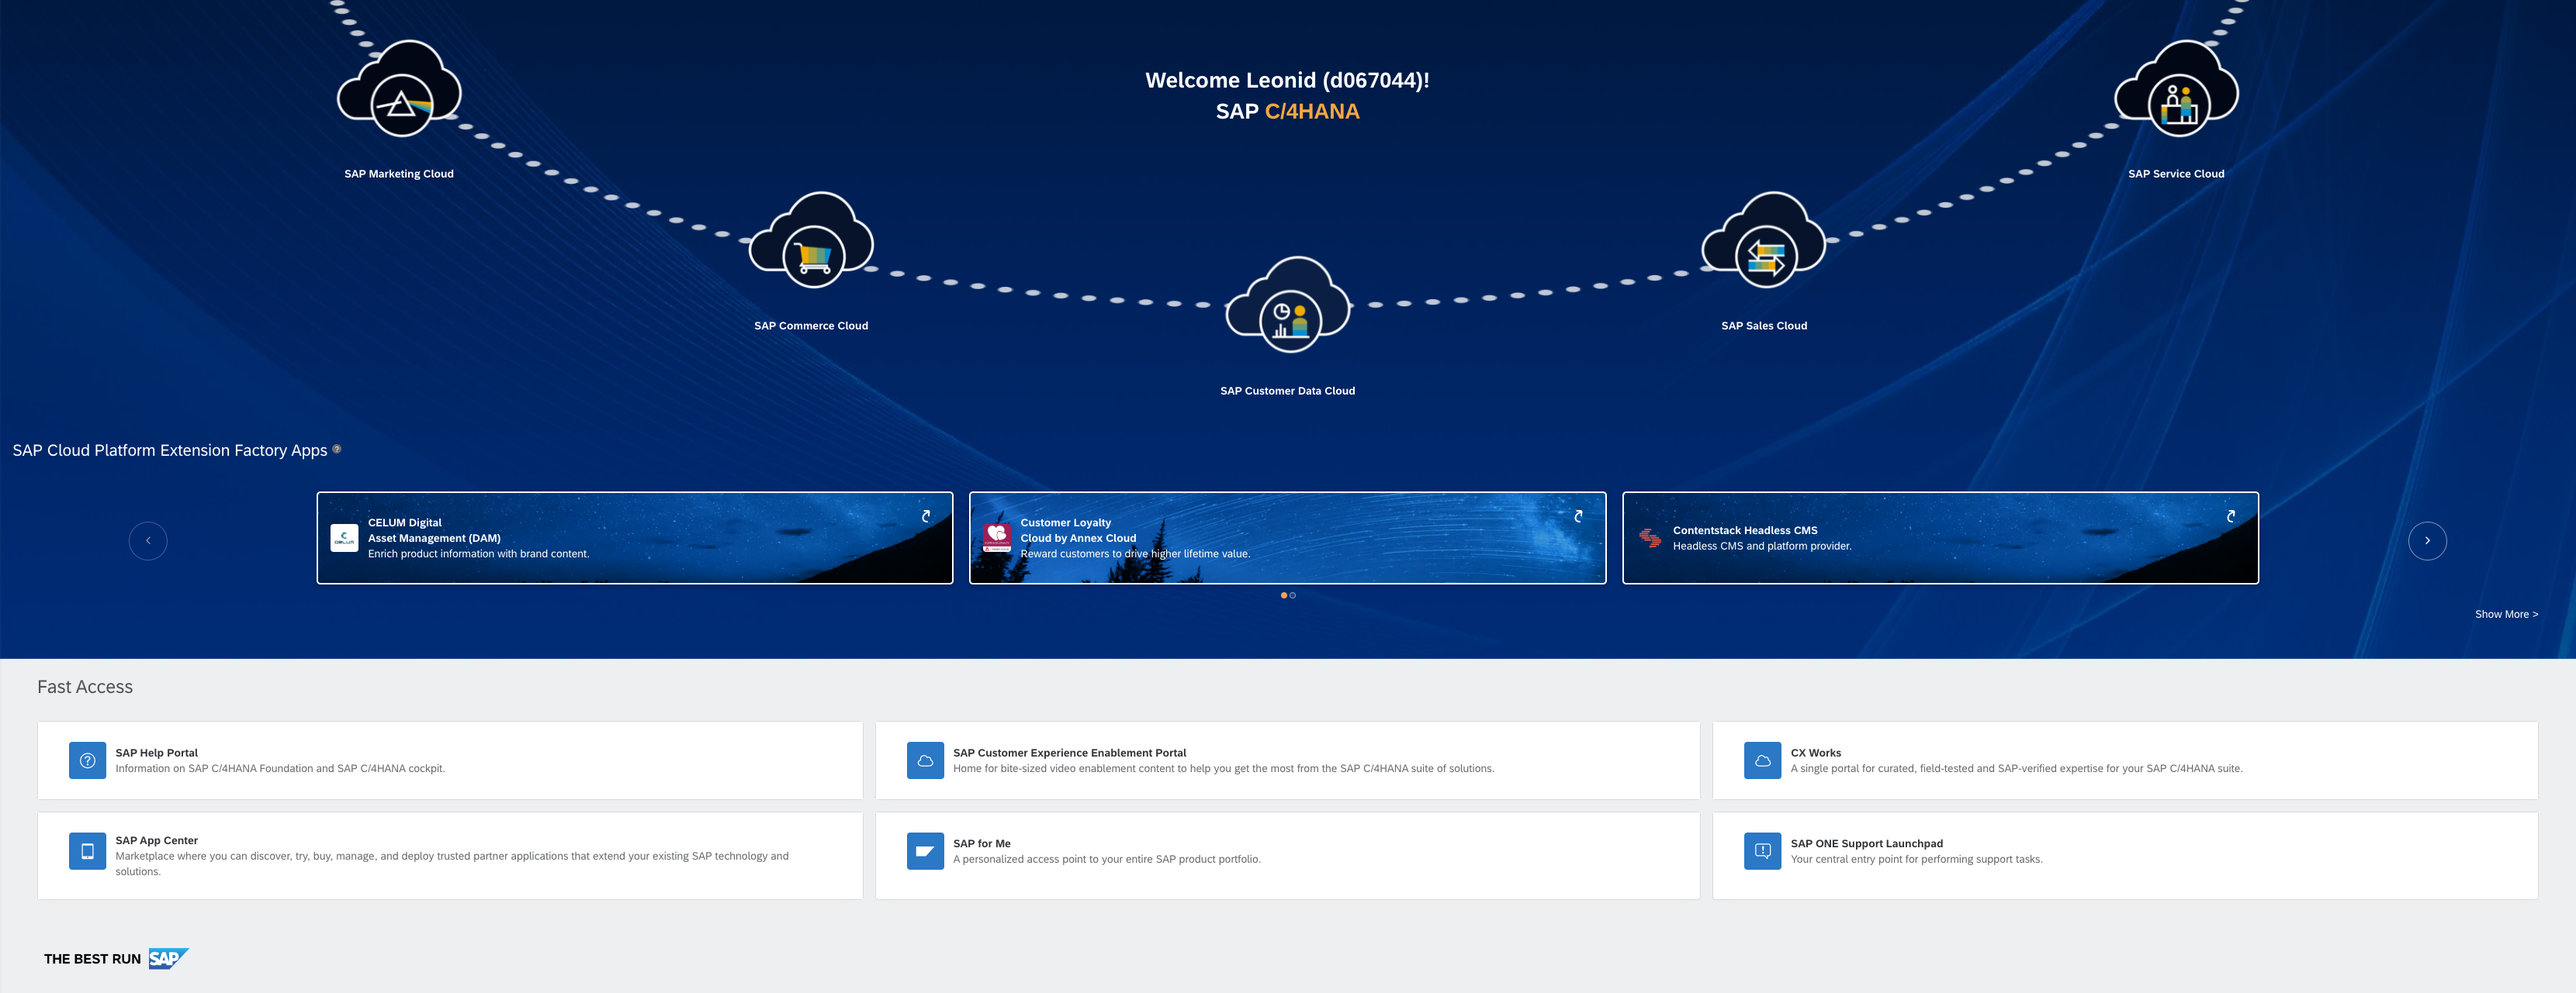
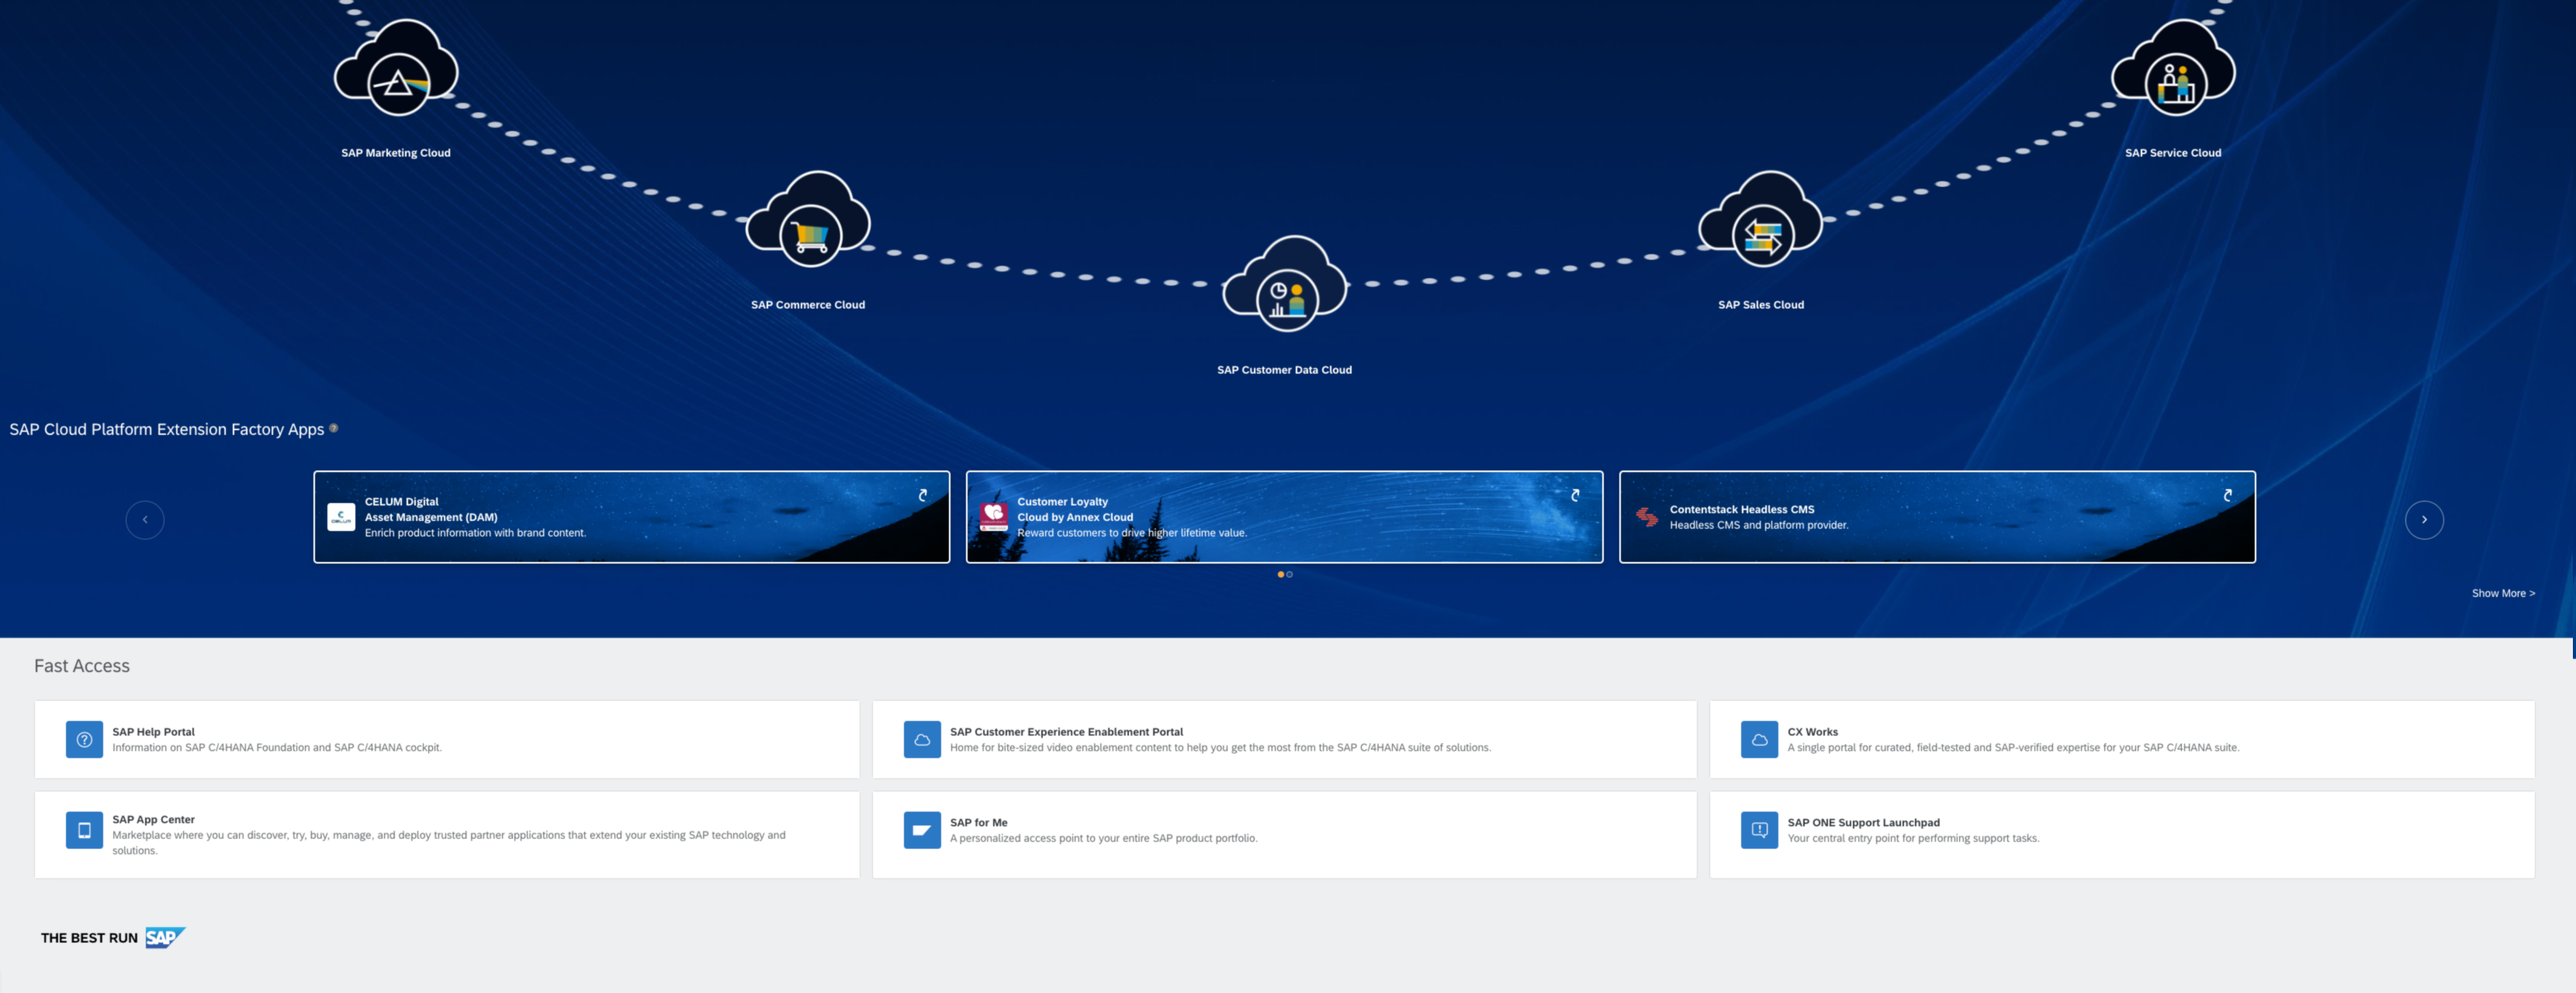
1

diff --git a/src/components/welcome.component.js b/src/components/welcome.component.js
@@ -9,10 +9,26 @@ import { Card } from '@ui5/webcomponents-react/lib/Card'
 
 export class Welcome extends React.Component {
     render() {
-        return <div style={{width: "100%",
+        return <div style={{
+            width: "100%",
+            display: "flex",
             backgroundRepeat: "no-repeat",
             backgroundSize: "contain",
             height: "100%",
-            backgroundImage: "url(/back.png)"}}></div>
+            backgroundImage: "url(/back.png)"
+        }}>
+            <div style={{
+                color: "white",
+                margin: "auto",
+                marginTop: "40px",
+                fontFamily: "sans-serif",
+                fontSize: "large",
+                textAlign: "center"
+            }}>
+                Welcome Leonid (D067044)!
+                <br/>
+                SAP C/4HANA
+            </div>
+        </div >
     }
 }

diff --git a/src/components/main.component.js b/src/components/main.component.js
@@ -29,7 +29,7 @@ const State = "longstatestate";
 
 export class MainComponent extends React.Component {
 
-    componentDidMount() {
+    /*componentDidMount() {
         console.log(window.sessionStorage.getItem("id_token"))
         if (!window.sessionStorage.getItem("id_token")) {
             if (queryString.parse(window.location.search).id_token) {
@@ -45,11 +45,11 @@ export class MainComponent extends React.Component {
                 window.location = redirectToUrl
             }
         }
-    }
+    }*/
 
     render() {
         return (
-            window.sessionStorage.getItem("id_token") &&
+            //window.sessionStorage.getItem("id_token") &&
             <BrowserRouter>
                 <ThemeProvider withToastContainer>
                     <div style={{ height: "100%" }}>
